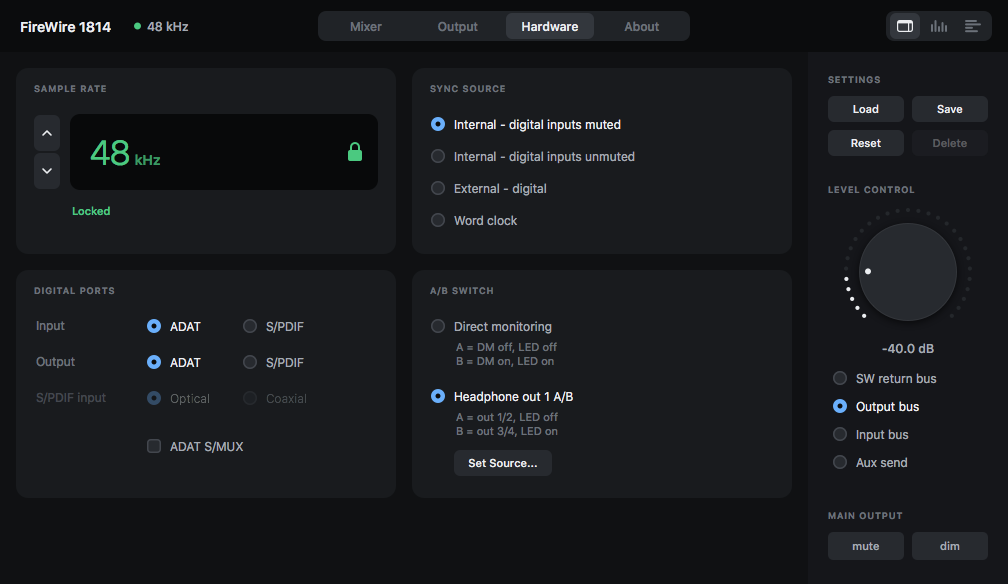
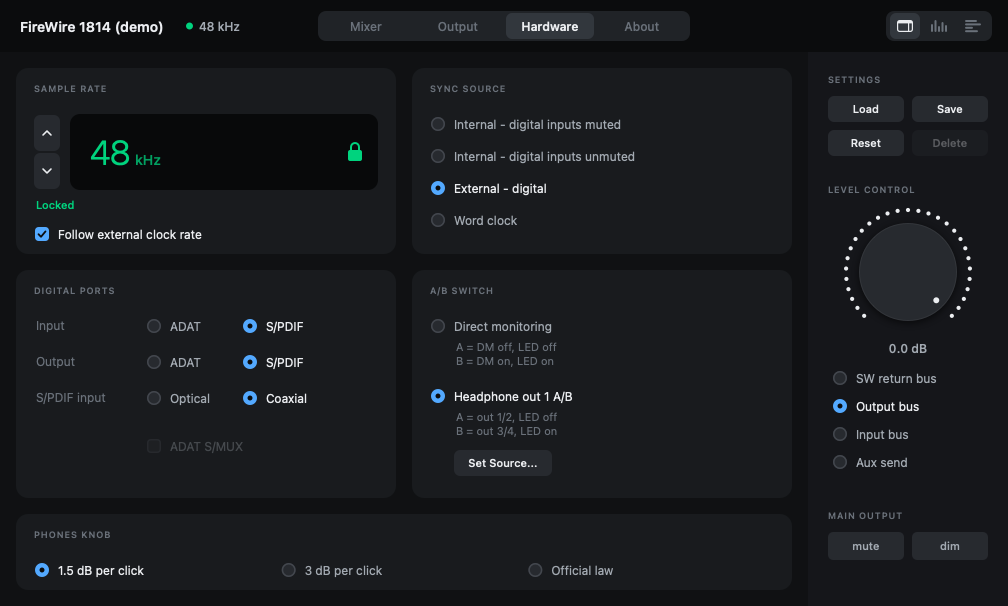
README: new Hardware page screenshot (Follow external clock rate, phones knob)

diff --git a/openaudio-mafw-bebob/control-panel/Sources/DemoBackend.swift b/openaudio-mafw-bebob/control-panel/Sources/DemoBackend.swift
@@ -13,7 +13,7 @@ final class DemoBackend: PanelBackend {
 
     let profile: DeviceProfile
 
-    init(id: UInt64, rate: UInt32, adat: Bool, guid: String = "0xD6C040074B9FB", profile: DeviceProfile = FW1814Profile.shared) {
+    init(id: UInt64, rate: UInt32, adat: Bool, external: Bool = false, guid: String = "0xD6C040074B9FB", profile: DeviceProfile = FW1814Profile.shared) {
         entryID = id
         self.profile = profile
         // the first demo Audiophile shows the bench unit's GUID (capture 89 / 92)
@@ -21,6 +21,7 @@ final class DemoBackend: PanelBackend {
         func zeros(_ n: Int, _ v: Int = 0) -> [NSNumber] { return [NSNumber](repeating: NSNumber(value: v), count: n) }
         var clock = MAClockSource.factoryDefault
         clock.sync = .internalUnmuted; clock.adatIn = adat; clock.adatOut = adat
+        if external { clock.sync = .externalDigital; clock.spdifCoaxial = true }   // `--external`: External - digital, coaxial S/PDIF
         var pans: [NSNumber] = []
         for i in 0..<18 { pans.append(NSNumber(value: i % 2 == 0 ? -255 : 255)) }
         var info = [UInt8](repeating: 0, count: 0x50)
@@ -85,6 +86,11 @@ final class DemoBackend: PanelBackend {
     }
 
     var info: FWDeviceInfo { return FWDeviceInfo(entryID: entryID, guid: guid, name: "\(profile.productName) (demo)") }
+    /// MAExternalSyncRate (RATE_FOLLOW_PLAN_v1): a source at the demo's own rate while the sync source is external, else none
+    var externalSyncRate: UInt32? {
+        let c = MAClockSource(raw: UInt32(truncatingIfNeeded: (props[MAKeys.clockSource.name] as? NSNumber)?.uint64Value ?? 0))
+        return c.sync == .externalDigital ? (props[MAKeys.sampleRate.name] as? NSNumber)?.uint32Value ?? 0 : 0
+    }
     func copyProperties() -> [String: Any] { return props }
     func setProperties(_ properties: [String: Any]) -> kern_return_t {
         for (k, v) in properties {

diff --git a/openaudio-mafw-bebob/control-panel/Sources/AppDelegate.swift b/openaudio-mafw-bebob/control-panel/Sources/AppDelegate.swift
@@ -42,7 +42,7 @@ final class AppDelegate: NSObject, NSApplicationDelegate, NSMenuDelegate {
             let first = args.index(of: "--model").flatMap { i in i + 1 < args.count ? DeviceProfiles.profile(named: args[i + 1]) : nil }
             func profile(_ k: Int) -> DeviceProfile { return k < models.count ? models[k] : (k == 0 ? (first ?? FW1814Profile.shared) : FW1814Profile.shared) }
             demo = (0..<n).map { k in
-                k == 0 ? DemoBackend(id: 1, rate: rate, adat: !args.contains("--spdif"), guid: guids[0], profile: profile(0))
+                k == 0 ? DemoBackend(id: 1, rate: rate, adat: !args.contains("--spdif"), external: args.contains("--external"), guid: guids[0], profile: profile(0))
                        : DemoBackend(id: UInt64(k + 1), rate: 44100, adat: false, guid: guids[k], profile: profile(k))
             }
             sync()

diff --git a/README.md b/README.md
@@ -76,7 +76,7 @@ With the sync source on **External – digital** (S/PDIF), the panel sets the in
 </tr>
 <tr>
 <td align="center"><img src="docs/images/panel-output.png" width="400" alt="FW1814 output page"><br><sub>FireWire 1814: output page</sub></td>
-<td align="center"><img src="docs/images/panel-hardware.png" width="400" alt="FW1814 hardware page"><br><sub>FireWire 1814: hardware page (rate, sync, digital ports, A/B switch)</sub></td>
+<td align="center"><img src="docs/images/panel-hardware.png" width="400" alt="FW1814 hardware page"><br><sub>FireWire 1814: hardware page (rate with <i>Follow external clock rate</i>, sync, digital ports, A/B switch, phones knob; demo mode render)</sub></td>
 </tr>
 </table>
 
